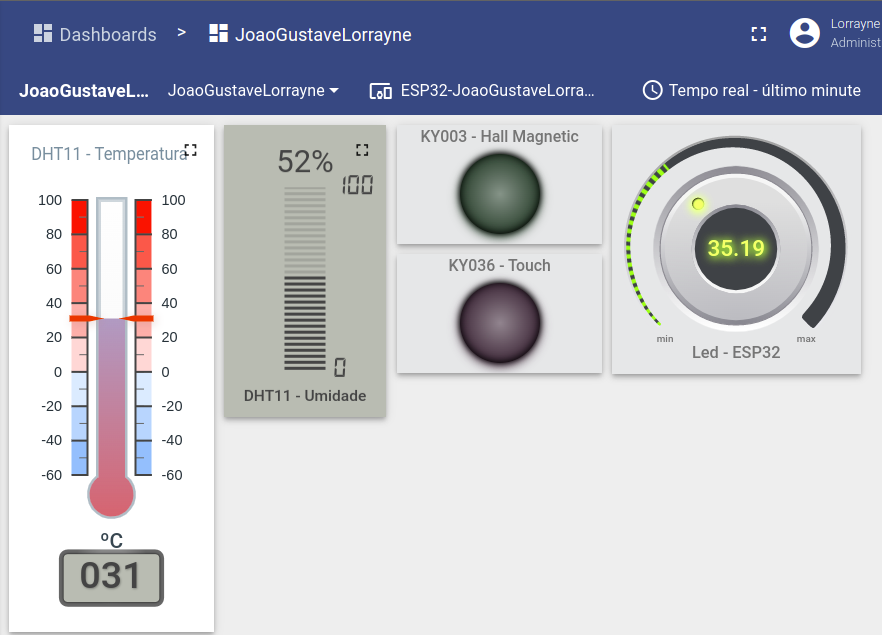
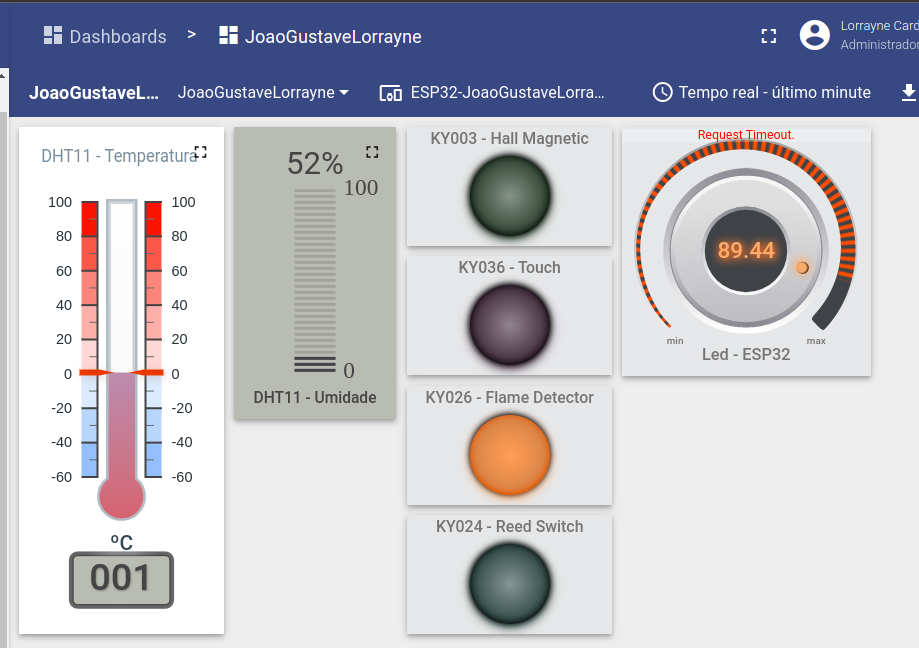
Update

diff --git a/src/modo_operacao.c b/src/modo_operacao.c
@@ -34,12 +34,12 @@ void energia()
 
   config_pwm();
 
-  // xTaskCreate(&init_dht11, "Rotina do DHT11", 2048, NULL, 1, NULL);
-  // xTaskCreate(&read_touch_sensor, "Rotina do KY036", 2048, NULL, 1, NULL);
-  xTaskCreate(&read_hall_magnetic_sensor, "Hall_Sensor_Task", 2048, NULL, 10, NULL);
-  // xTaskCreate(read_sound_sensor, "Voice_Sensor", 2048, NULL, 10, NULL);
-  // xTaskCreate(read_flame_sensor, "Flame_Sensor", 2048, NULL, 10, NULL);
-  // xTaskCreate(read_reed_switch, "Reed_Switch", 2048, NULL, 10, NULL);
+   xTaskCreate(&init_dht11, "Temperatura_Umidade", 2048, NULL, 1, NULL);
+   xTaskCreate(&read_touch_sensor, "Touch", 2048, NULL, 1, NULL);
+   xTaskCreate(&read_hall_magnetic_sensor, "Hall_Sensor_Task", 2048, NULL, 10, NULL);
+   //xTaskCreate(read_sound_sensor, "Voice_Sensor", 2048, NULL, 10, NULL);
+   //xTaskCreate(read_flame_sensor, "Flame_Sensor", 2048, NULL, 10, NULL);
+   //xTaskCreate(read_reed_switch, "Reed_Switch", 2048, NULL, 10, NULL);
 }
 
 void bateria()
@@ -47,7 +47,7 @@ void bateria()
   char mensagem[50];
 
   // Configuração da GPIO para o botão de entrada
-  pinMode(HALL_SENSOR_PIN, GPIO_INPUT);
+  pinMode(HALL, GPIO_INPUT_PULLUP);
 
   gpio_wakeup_enable(HALL, GPIO_INTR_HIGH_LEVEL);
   esp_sleep_enable_gpio_wakeup();
@@ -65,12 +65,14 @@ void bateria()
     if (causa == ESP_SLEEP_WAKEUP_GPIO)
     {
       printf("\nO sensor despertou!\n");
-      printf("Hall Magnetic: %d\n", state);
-      sprintf(mensagem, "{\"HallMagnetic\": %d}", state);
+      printf("Touch: %d\n", state);
+      sprintf(mensagem, "{\"Touch\": %d}", state);
       mqtt_envia_mensagem("v1/devices/me/telemetry", mensagem);
-      grava_valor_nvs("HallMagnetic", state);
+      grava_valor_nvs("Touch", state);
       causa = ESP_SLEEP_WAKEUP_TIMER;
       printf("Mensagem enviada!\n\n");
+      vTaskDelay(1000 / portTICK_PERIOD_MS); // aguarde por 1 segundo
     }
+    
   }
 }

diff --git a/src/ky003.c b/src/ky003.c
@@ -11,13 +11,12 @@
 #include "nvs_handler.h"
 #include "mqtt.h"
 
-#define LED_PIN 2
-#define HALL_SENSOR_PIN 4
+#define HALL_SENSOR_PIN 18
 
 void read_hall_magnetic_sensor(void *pvParameter)
 {
     pinMode(HALL_SENSOR_PIN, GPIO_INPUT);
-    pinMode(LED_PIN, GPIO_OUTPUT);
+    
 
     char mensagem[50];
 

diff --git a/include/ky036.h b/include/ky036.h
@@ -1,6 +1,6 @@
 #ifndef KY036_H
 #define KY036_H
 
-void init_ky036();
+void read_touch_sensor();
 
 #endif
